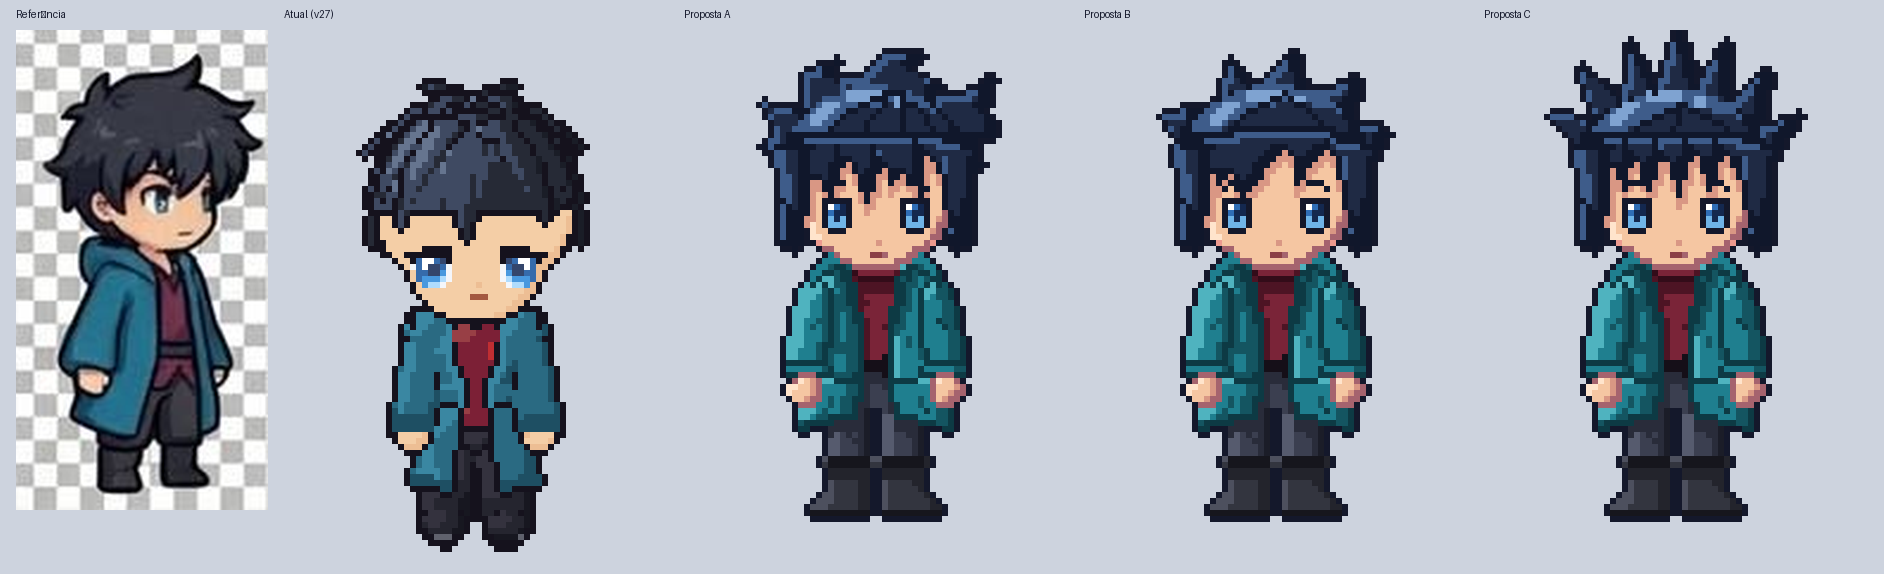
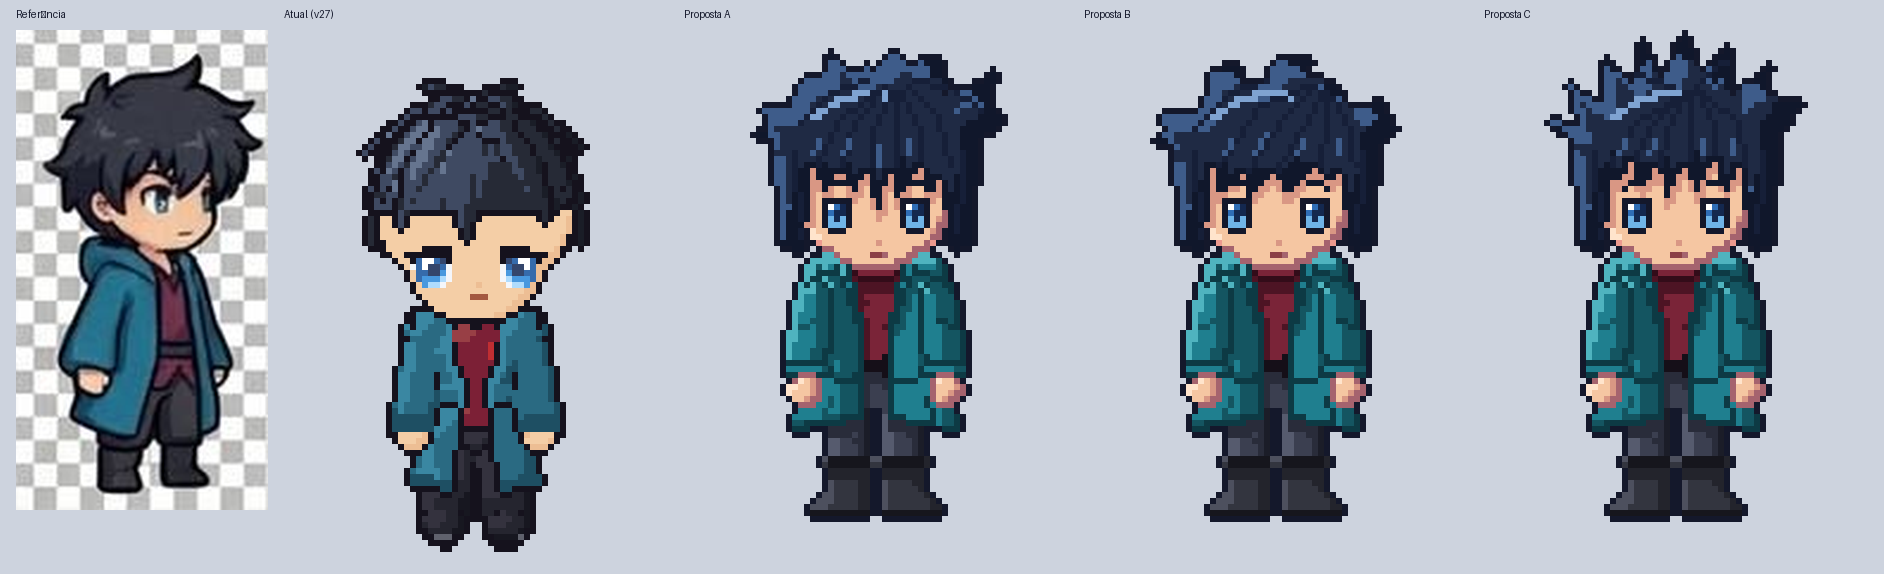
Herói pixel art: cabelo em massa única com mechas e capuz assentado nos ombros
O cabelo deixa de ser calota + franja (parecia capacete): topo, tufos, franja e
laterais viram uma massa só, com fios saindo do redemoinho. O capuz vira um rolo
baixo nos ombros com o forro escuro atrás da nuca; casaco mais fosco.

Claude-Session: https://claude.ai/code/session_013vLqrVyPBNyjBLYS91kN9N

diff --git a/public/pixelHero.js b/public/pixelHero.js
@@ -60,9 +60,11 @@ const part = (name, layer, mask, pal, o = {}) => ({ name, layer, mask, pal, grou
 
 function bodyParts() {
   const P = [];
-  // Capuz caído nas costas: aparece como gola grossa em volta do pescoço.
-  P.push(part('capuz', 'casaco', or(ell(32, 50, 11.5, 4.6), sym([[32, 44.5], [24, 45.5], [21, 49]])), [PAL.casaco[1], PAL.casaco[2], PAL.casaco[3], PAL.casaco[3]],
-    { shade: { l: [0, -2], s: [0, 2], d: [1, 1] }, group: 'capuz' }));
+  // Capuz caído nas costas: um rolo grosso e macio atrás do pescoço que sobe pelos lados até a altura do queixo,
+  // com o forro escuro aparecendo atrás da nuca.
+  const capuz = or(ell(32, 49.6, 11.6, 3.6), ell(24.4, 48.6, 4.6, 3.2), ell(39.6, 48.6, 4.6, 3.2));
+  P.push(part('capuz', 'casaco', capuz, PAL.casaco, { shade: { l: [-1, -2], s: [2, 2], d: [1, 1] }, group: 'capuz', strokes: [[2, [[22, 47], [24, 49]]], [2, [[42, 47], [40, 49]]]] }));
+  P.push(part('capuz_forro', 'casaco', ell(32, 47.8, 6.4, 2.6), [PAL.casaco[3], PAL.casaco[3], PAL.casaco[3], PAL.casaco[3]], { group: 'capuz', sep: false }));
 
   // Pernas (calça larga presa na bota), com a fenda entre elas.
   const quadril = poly([[24, 63], [40, 63], [40.3, 71], [23.7, 71]]);
@@ -87,25 +89,25 @@ function bodyParts() {
   P.push(part('no_faixa', 'acessorio', or(poly([[33, 62], [36, 62], [36, 66], [33, 66]]), poly([[33.6, 65], [35.6, 65], [36.6, 70.4], [34.2, 70.4]])), PAL.faixa,
     { shade: { l: [-1, -1], s: [1, 1] }, group: 'no' }));
 
-  // Casaco: silhueta aberta na frente (V até a faixa, abre de novo embaixo), barra em duas pontas separadas.
-  const fora = [[32, 47.4], [25, 47.4], [21.4, 49.6], [20.4, 53], [20.6, 64], [20, 70], [32, 70]];
-  const abertura = poly([[27.8, 47], [36.2, 47], [34.4, 56], [33.6, 63], [36, 71], [28, 71], [30.4, 63], [29.6, 56]]);
+  // Casaco: ombros redondos e caídos, aberto na frente (V até a faixa, abre de novo embaixo), barra em duas abas.
+  // Tecido fosco: luz só no alto dos ombros e das mangas, sombra larga do lado direito.
+  const fora = [[32, 47.4], [26.4, 47.4], [22.6, 48.4], [20.2, 50.8], [19.6, 55], [20, 64], [19.6, 70], [32, 70]];
+  const abertura = poly([[27.6, 47], [36.4, 47], [34.4, 56], [33.6, 63], [36, 71], [28, 71], [30.4, 63], [29.6, 56]]);
   P.push(part('casaco', 'casaco', minus(sym(fora), abertura), PAL.casaco,
-    { shade: { l: [-2, -2], s: [3, 1], d: [1, 1] }, recv: true,
-      marks: [[23, 50, 3], [24, 51, 3], [25, 50, 2], [40, 50, 3], [39, 51, 3], [38, 50, 2], [26, 60, 2], [26, 61, 2], [37, 59, 2], [37, 60, 2]] }));
-  // Lapelas: tira clara ao longo da abertura.
-  const lapE = [[25.4, 47], [28, 47], [29.8, 56], [29, 59], [27, 52]];
-  P.push(part('lapela_e', 'casaco', poly(lapE), PAL.casaco, { shade: { l: [-1, 0], s: [2, 1] }, group: 'lapela' }));
-  P.push(part('lapela_d', 'casaco', poly(mir(lapE)), PAL.casaco, { shade: { l: [-1, 0], s: [1, 1], d: [1, 0] }, group: 'lapela' }));
-  // Barra: duas abas soltas (cada uma vai balançar sozinha nas animações).
-  const abaE = [[20.4, 65.6], [30.6, 65.6], [28.8, 73], [24.6, 73.6], [18.6, 75.2], [19.6, 70]];
-  P.push(part('aba_e', 'casaco', poly(abaE), PAL.casaco, { shade: { l: [-2, -1], s: [3, 1], d: [1, 1] }, group: 'aba_e', marks: [[24, 69, 2], [24, 70, 2], [23, 71, 2]] }));
-  P.push(part('aba_d', 'casaco', poly(mir(abaE)), PAL.casaco, { shade: { l: [-1, -1], s: [3, 1], d: [1, 1] }, group: 'aba_d', marks: [[39, 69, 2], [39, 70, 2], [40, 71, 3]] }));
+    { shade: { l: [-1, -3], s: [4, 1], d: [1, 1] }, recv: true, strokes: [[2, [[24, 49], [25, 51]]], [2, [[40, 49], [39, 51]]]] }));
+  // Lapelas: dobra do tecido ao longo da abertura, com o vinco escuro do lado de dentro.
+  const lapE = [[25, 47.4], [27.8, 47], [29.8, 56], [29.2, 59], [26.8, 52]];
+  P.push(part('lapela_e', 'casaco', poly(lapE), PAL.casaco, { shade: { l: [0, -2], d: [1, 0] }, group: 'lapela' }));
+  P.push(part('lapela_d', 'casaco', poly(mir(lapE)), PAL.casaco, { shade: { s: [1, 0], d: [-1, 0] }, group: 'lapela' }));
+  // Barra: duas abas soltas e um pouco abertas em sino (cada uma vai balançar sozinha nas animações).
+  const abaE = [[20, 65.6], [30.6, 65.6], [29.4, 73.2], [24.4, 73.8], [18, 75.2], [18.8, 70.4]];
+  P.push(part('aba_e', 'casaco', poly(abaE), PAL.casaco, { shade: { s: [4, 1], d: [1, 1] }, group: 'aba_e', strokes: [[2, [[24, 69], [23, 72]]]] }));
+  P.push(part('aba_d', 'casaco', poly(mir(abaE)), PAL.casaco, { shade: { s: [3, 1], d: [1, 1] }, group: 'aba_d', strokes: [[3, [[40, 69], [41, 72]]]] }));
 
-  // Braços: mangas largas com punho dobrado e o punho fechado.
-  const mangaE = [[22.6, 49], [25, 51.4], [24.8, 58], [24.2, 63.6], [17.2, 63.6], [17.6, 57], [19.4, 51]];
-  P.push(part('manga_e', 'casaco', poly(mangaE), PAL.casaco, { shade: { l: [-2, -2], s: [2, 1], d: [1, 1] }, group: 'manga', marks: [[22, 56, 2], [21, 57, 2]] }));
-  P.push(part('manga_d', 'casaco', poly(mir(mangaE)), PAL.casaco, { shade: { l: [-1, -2], s: [3, 1], d: [1, 1] }, group: 'manga', marks: [[42, 56, 3], [43, 57, 3]] }));
+  // Braços: mangas largas e fofas, com a dobra do cotovelo, punho dobrado e a mão fechada.
+  const mangaE = [[22.4, 48.6], [25, 51], [24.8, 58], [24.4, 63.6], [17.2, 63.6], [17.6, 56.6], [19.2, 50.6]];
+  P.push(part('manga_e', 'casaco', poly(mangaE), PAL.casaco, { shade: { l: [-1, -2], s: [3, 1], d: [1, 1] }, group: 'manga', strokes: [[2, [[19, 57], [22, 56]]]] }));
+  P.push(part('manga_d', 'casaco', poly(mir(mangaE)), PAL.casaco, { shade: { l: [0, -2], s: [4, 1], d: [1, 1] }, group: 'manga', strokes: [[3, [[42, 56], [45, 57]]]] }));
   const punhoMangaE = [[17.2, 62.6], [24.4, 62.6], [24.6, 66], [16.8, 66]];
   P.push(part('punho_e', 'casaco', poly(punhoMangaE), PAL.casaco, { shade: { l: [0, -1], s: [2, 1], d: [0, 1] }, group: 'punho' }));
   P.push(part('punho_d', 'casaco', poly(mir(punhoMangaE)), PAL.casaco, { shade: { l: [0, -1], s: [2, 1], d: [0, 1] }, group: 'punho' }));
@@ -146,67 +148,83 @@ export function faceStamps() {
 
 // ---------------------------------------------------------------- cabelos
 
-const HS = { l: [-1, -1], s: [2, 1], d: [1, 1] };
-const lock = (name, pts, o = {}) => part(name, 'cabelo', poly(pts), PAL.cabelo, { shade: HS, group: 'cabelo', sep: false, ...o });
-const fr = (name, pts, o = {}) => lock(name, pts, { group: 'franja', sep: true, shade: { l: [-1, -2], s: [2, 1], d: [1, 1] }, ...o });
+// O cabelo é UMA massa só na frente (topo, tufos, franja e laterais juntos), sombreada de uma vez: assim não há
+// borda de "capacete" entre a calota e a franja. As mechas aparecem pelos fios (traços de sombra que saem do
+// redemoinho e descem até o vão entre as pontas) e pelas pontas da silhueta e da franja.
+const FIO = '#161f38';
 const back = (ry = 14.6) => part('cabelo_tras', 'cabelo', or(ell(32, 31, 16.4, ry), sym([[32, 30], [15.6, 32], [16.4, 43.6], [19.4, 45.4], [20, 38]])), PAL.cabelo,
   { shade: { l: [-2, -2], s: [3, 1], d: [1, 1] }, group: 'cabelo', sep: false });
-/** Calota: a massa do alto da cabeça, na frente do crânio, até a linha do cabelo. */
-const cap = (strokes, cy = 31, ry = 13.6) => part('calota', 'cabelo', and(ell(32, cy, 16, ry), rows(0, 27.5)), PAL.cabelo,
-  { shade: { l: [-3, -3], s: [3, 2], d: [1, 1] }, group: 'cabelo', sep: false, strokes });
-const lados = () => [
-  fr('lat_e', [[15.4, 27], [21.6, 27], [20.8, 36], [19.8, 45], [17.4, 39.6], [15.6, 35]], { shade: { l: [-2, -1], s: [2, 1], d: [1, 1] } }),
-  fr('lat_d', [[48.6, 27], [42.4, 27], [43.2, 36], [44.8, 44.6], [46.8, 39], [48.4, 34]], { shade: { l: [-1, -1], s: [1, 1], d: [1, 0] } }),
+function hairFront({ dome = [32, 30.6, 16.6, 14.2], tufts, fringe, sides, strands, lights = [] }) {
+  const mask = or(and(ell(...dome), rows(0, 27)), ...tufts.map(poly), poly(fringe), ...sides.map(poly));
+  return part('cabelo', 'cabelo', mask, PAL.cabelo, {
+    shade: { l: [-2, -3], s: [3, 2], d: [1, 1] }, group: 'cabelo', sep: true,
+    strokes: [...strands.map((pts) => [FIO, pts]), ...lights.map((pts) => [0, pts])],
+  });
+}
+const SIDES = [
+  [[15.4, 26], [21.6, 27], [21, 36], [19.8, 45.4], [17.2, 40], [15.4, 34]],
+  [[48.6, 26], [42.4, 27], [43, 36], [45, 45], [46.8, 39.4], [48.6, 34]],
 ];
+const SIDE_STRANDS = [[[18, 28], [18.6, 36], [19.4, 42]], [[46, 28], [45.6, 36], [45, 41]]];
 
-/** Três propostas: { tras: peças atrás da cabeça, frente: peças na frente }. 5 a 7 mechas, franja e 2 laterais. */
+/** Três propostas: { tras: atrás da cabeça, frente: na frente }. */
 export const HAIR = {
-  // A: bagunçado como a referência: tufos em leque para os lados e para cima, franja em 4 pontas.
+  // A: como a referência: volume redondo, pontas macias varridas para a direita, franja em mechas até os olhos
+  // com uma mecha comprida entre eles, laterais até o queixo.
   A: () => ({
-    tras: [back(),
-      lock('m1', [[20, 30], [12.6, 27.6], [15.4, 25.4], [13.2, 20.4], [18.6, 21.4], [22, 25]]),
-      lock('m2', [[19.4, 22], [20.4, 15.2], [25.8, 13.2], [24.8, 16.6], [31, 16.2], [30, 21]]),
-      lock('m3', [[28, 18], [33.6, 12.2], [40.8, 11.8], [37.6, 14.6], [43, 17.4], [40, 22]]),
-      lock('m4', [[40, 20], [47.6, 18.4], [52, 15.4], [50.4, 21.4], [52.8, 25], [46, 28]]),
-      lock('m5', [[44, 27], [50.6, 30.4], [47, 33]])],
-    frente: [cap([[2, [[34, 18], [27, 21], [22, 26]]], [2, [[34, 18], [31, 22], [28, 27]]], [2, [[35, 18], [39, 21], [42, 26]]], [2, [[36, 18], [36, 22], [35, 27]]]]),
-      fr('f1', [[18.4, 25], [27.4, 25], [27, 30], [24.6, 36.6], [22.4, 32.4], [19.4, 33.4], [19.6, 29]]),
-      fr('f2', [[24.6, 25], [34, 25], [33, 30.4], [30.6, 37.2], [28.4, 32]]),
-      fr('f3', [[31, 25], [41, 25], [39.6, 30], [39.6, 36], [36.6, 31.6], [34.4, 33.6]]),
-      fr('f4', [[38, 25], [45.8, 25.6], [45, 30], [45.6, 35], [42.4, 31.4]]),
-      ...lados()],
+    tras: [back()],
+    frente: [hairFront({
+      tufts: [
+        [[17, 27], [12.2, 25.6], [14.6, 23.8], [12.6, 20.4], [17.4, 21], [19, 18], [22, 22]],
+        [[19, 22], [19.6, 15.6], [23, 16.2], [24.4, 12.4], [28, 15.4], [31, 14], [31, 20]],
+        [[30, 17], [35, 11.2], [37.4, 14], [42.6, 12.6], [44, 18], [40, 21]],
+        [[42, 19], [48.6, 17.4], [51.8, 14.6], [51, 20], [53.2, 23.6], [48, 26.4]],
+      ],
+      fringe: [[16.6, 24], [47.4, 24], [47.6, 29], [45.6, 33.8], [43.8, 30.4], [41.4, 35.4], [39.2, 30.8], [35.4, 36.2], [34.4, 31.2], [32.2, 39],
+        [30.4, 31.4], [28.2, 35.8], [26, 30.6], [23.4, 35.6], [21.8, 30.6], [19.6, 33], [17.4, 29]],
+      sides: SIDES,
+      strands: [[[33, 17], [26, 22], [21.8, 30]], [[33, 17], [28, 23], [26, 30]], [[34, 18], [31, 25], [30.4, 31]], [[35, 18], [35, 25], [34.4, 31]],
+        [[36, 18], [38.6, 24], [39.2, 30]], [[37, 17], [42, 22], [43.8, 30]], [[30, 16], [24, 18], [19, 23]], [[38, 16], [44, 17], [49, 21]], ...SIDE_STRANDS],
+      lights: [[[22, 26], [21, 28]], [[27, 26], [26, 28]], [[32, 27], [32, 30]], [[37, 26], [37, 28]]],
+    })],
   }),
-  // B: franja longa varrida de lado (da esquerda para a direita), coroa mais lisa com 2 redemoinhos.
+  // B: mais solto e comprido: franja varrida para a esquerda em 3 mechas largas, topo redondo com 2 redemoinhos.
   B: () => ({
-    tras: [back(14),
-      lock('m1', [[17, 28], [12.4, 21.6], [20, 21.4]]),
-      lock('m2', [[22, 21], [24.6, 12.6], [29, 18.6]]),
-      lock('m3', [[29, 18], [35.4, 11.6], [37.4, 19]]),
-      lock('m4', [[38, 19], [46.6, 15.6], [44.6, 24]]),
-      lock('m5', [[44, 24], [51.6, 24.6], [47.4, 31]])],
-    frente: [cap([[2, [[33, 18], [26, 22], [21, 27]]], [2, [[33, 18], [38, 22], [41, 27]]]], 30.6, 13.4),
-      fr('f1', [[18.4, 25.6], [30, 23.6], [36.4, 25.4], [32, 29.4], [28.6, 34], [25.8, 37.8], [25.2, 31.6], [21.6, 34.2], [21.4, 29.8]]),
-      fr('f2', [[30, 24], [42, 24.4], [43, 27], [38.6, 29.4], [35.4, 34.2], [34.6, 29.6]]),
-      fr('f3', [[40, 25], [46, 26.4], [45, 31.6], [43, 35.2], [41.8, 29.8]]),
-      ...lados()],
+    tras: [back(14.6)],
+    frente: [hairFront({
+      dome: [32, 30.4, 16.8, 14],
+      tufts: [
+        [[18, 27], [11.6, 27.4], [14, 24.6], [12, 21.6], [18, 22]],
+        [[20, 21], [21.4, 15], [26.4, 13.6], [25.6, 16.4], [30, 18]],
+        [[29, 18], [32.6, 12.8], [38.6, 13.2], [36.6, 15.4], [42.6, 17.6], [44, 22]],
+        [[43, 21], [49.6, 20.4], [52, 24.8], [48.6, 27.6]],
+      ],
+      fringe: [[16.6, 24], [47.4, 24], [47.4, 30], [45.8, 34], [44.6, 30.6], [40.6, 33.6], [38.6, 30.6], [33.6, 35.6], [31.6, 31.4], [26.6, 37.4],
+        [26.6, 31.6], [22.4, 35.4], [21.6, 31], [18.8, 33.4], [17.4, 29]],
+      sides: SIDES,
+      strands: [[[38, 17], [33, 22], [26.6, 31.6]], [[39, 18], [36, 24], [31.6, 31.4]], [[40, 18], [40, 24], [38.6, 30.6]], [[41, 19], [44, 24], [44.6, 30.6]],
+        [[37, 17], [29, 20], [21.6, 31]], [[30, 16], [24, 18], [18, 24]], ...SIDE_STRANDS],
+      lights: [[[24, 26], [23, 28]], [[30, 25], [28, 28]], [[36, 26], [35, 28]], [[42, 26], [42, 28]]],
+    })],
   }),
-  // C: espetado para cima, 7 pontas na coroa, franja curta em 5 pontas retas.
+  // C: espetado: pontas mais altas e finas no alto, franja mais curta em 5 mechas.
   C: () => ({
-    tras: [back(14),
-      lock('m1', [[17, 29], [10.6, 22], [20, 23]]),
-      lock('m2', [[18.6, 24], [15.6, 13.6], [25, 21]]),
-      lock('m3', [[23, 21], [24.4, 9.6], [30, 19.6]]),
-      lock('m4', [[28, 20], [32.6, 7.4], [36.6, 20]]),
-      lock('m5', [[34, 20], [40.6, 9.6], [41.6, 21.6]]),
-      lock('m6', [[39.4, 21.6], [48.6, 13.6], [46, 25]]),
-      lock('m7', [[44.6, 25], [53.4, 22], [47.6, 30.6]])],
-    frente: [cap([[2, [[32, 20], [25, 24], [22, 27]]], [2, [[32, 20], [31, 27]]], [2, [[33, 20], [40, 24], [42, 27]]]], 31.4, 13.2),
-      fr('f1', [[18.4, 25.2], [26, 25], [25, 29], [23.4, 34.6], [20.6, 30]]),
-      fr('f2', [[23, 25], [31, 25], [29.6, 30], [27.6, 35.6], [25.6, 30]]),
-      fr('f3', [[28.4, 25], [36, 25], [34.4, 30], [32.4, 36.2], [30.6, 30]]),
-      fr('f4', [[33.6, 25], [41, 25], [39.6, 30], [37.8, 35.4], [36, 30]]),
-      fr('f5', [[38.6, 25], [45.8, 25.6], [44.6, 30], [43, 34.6], [41, 30]]),
-      ...lados()],
+    tras: [back(14)],
+    frente: [hairFront({
+      dome: [32, 31, 16.4, 13.8],
+      tufts: [
+        [[17, 28], [11, 23.4], [16, 23.6], [14.4, 17.4], [21, 21]],
+        [[20, 21], [20.4, 12.6], [25, 17], [26.6, 9.6], [30, 17]],
+        [[29, 18], [33.4, 8.4], [36, 15.4], [40.6, 10.6], [41, 19]],
+        [[40, 20], [47.6, 14.4], [47, 19], [53, 20.6], [47.6, 27]],
+      ],
+      fringe: [[16.6, 24], [47.4, 24], [47.4, 29], [45.4, 33.4], [43, 30], [40.4, 34.6], [38.4, 30], [35.2, 35.2], [33.4, 30.4], [30.6, 36],
+        [29, 30.4], [26.2, 34.6], [24.6, 30], [21.8, 34], [20.8, 30], [18.8, 32.4], [17.4, 29]],
+      sides: SIDES,
+      strands: [[[33, 18], [25, 23], [20.8, 30]], [[33, 18], [27, 24], [24.6, 30]], [[33, 18], [30, 25], [29, 30.4]], [[34, 18], [34, 25], [33.4, 30.4]],
+        [[35, 18], [38, 24], [38.4, 30]], [[36, 18], [42, 23], [43, 30]], [[31, 17], [24, 14.6]], [[35, 17], [40, 12.6]], ...SIDE_STRANDS],
+      lights: [[[23, 26], [22, 28]], [[28, 26], [27, 28]], [[36, 26], [36, 28]], [[41, 26], [41, 28]]],
+    })],
   }),
 };
 
@@ -245,7 +263,7 @@ export function renderHeroFront(hairKey = 'A') {
       const [x0, y0] = pts[k - 1], [x1, y1] = pts[k], n = Math.max(Math.abs(x1 - x0), Math.abs(y1 - y0), 1);
       for (let q = 0; q <= n; q++) {
         const x = Math.round(x0 + ((x1 - x0) * q) / n), y = Math.round(y0 + ((y1 - y0) * q) / n), i = y * W + x;
-        if (own[i] === pi) { col[i] = p.pal[t]; tone[i] = t; }
+        if (own[i] === pi) { col[i] = typeof t === 'string' ? t : p.pal[t]; tone[i] = typeof t === 'string' ? 2 : t; }
       }
     }
   });
@@ -283,7 +301,7 @@ export function renderHeroFront(hairKey = 'A') {
   for (let y = 0; y < H; y++) for (let x = 0; x < W; x++) {
     const i = y * W + x; if (layerOf[i] !== 'cabelo' || tone[i] > 1) continue;
     const dx = x + 0.5 - 31, dy = y + 0.5 - 31, r = Math.hypot(dx, dy), a = (Math.atan2(dy, dx) * 180) / Math.PI;
-    if (r >= 11.2 && r < 13.2 && a > -150 && a < -62 && ((Math.floor(a / 9) & 3) !== 3)) col[i] = PAL.brilho;
+    if (r >= 11.6 && r < 12.8 && a > -140 && a < -70 && ((Math.floor(a / 7) % 3) !== 2)) col[i] = PAL.brilho;
   }
 
   // Rosto por cima da cabeça, só onde a pele aparece.
